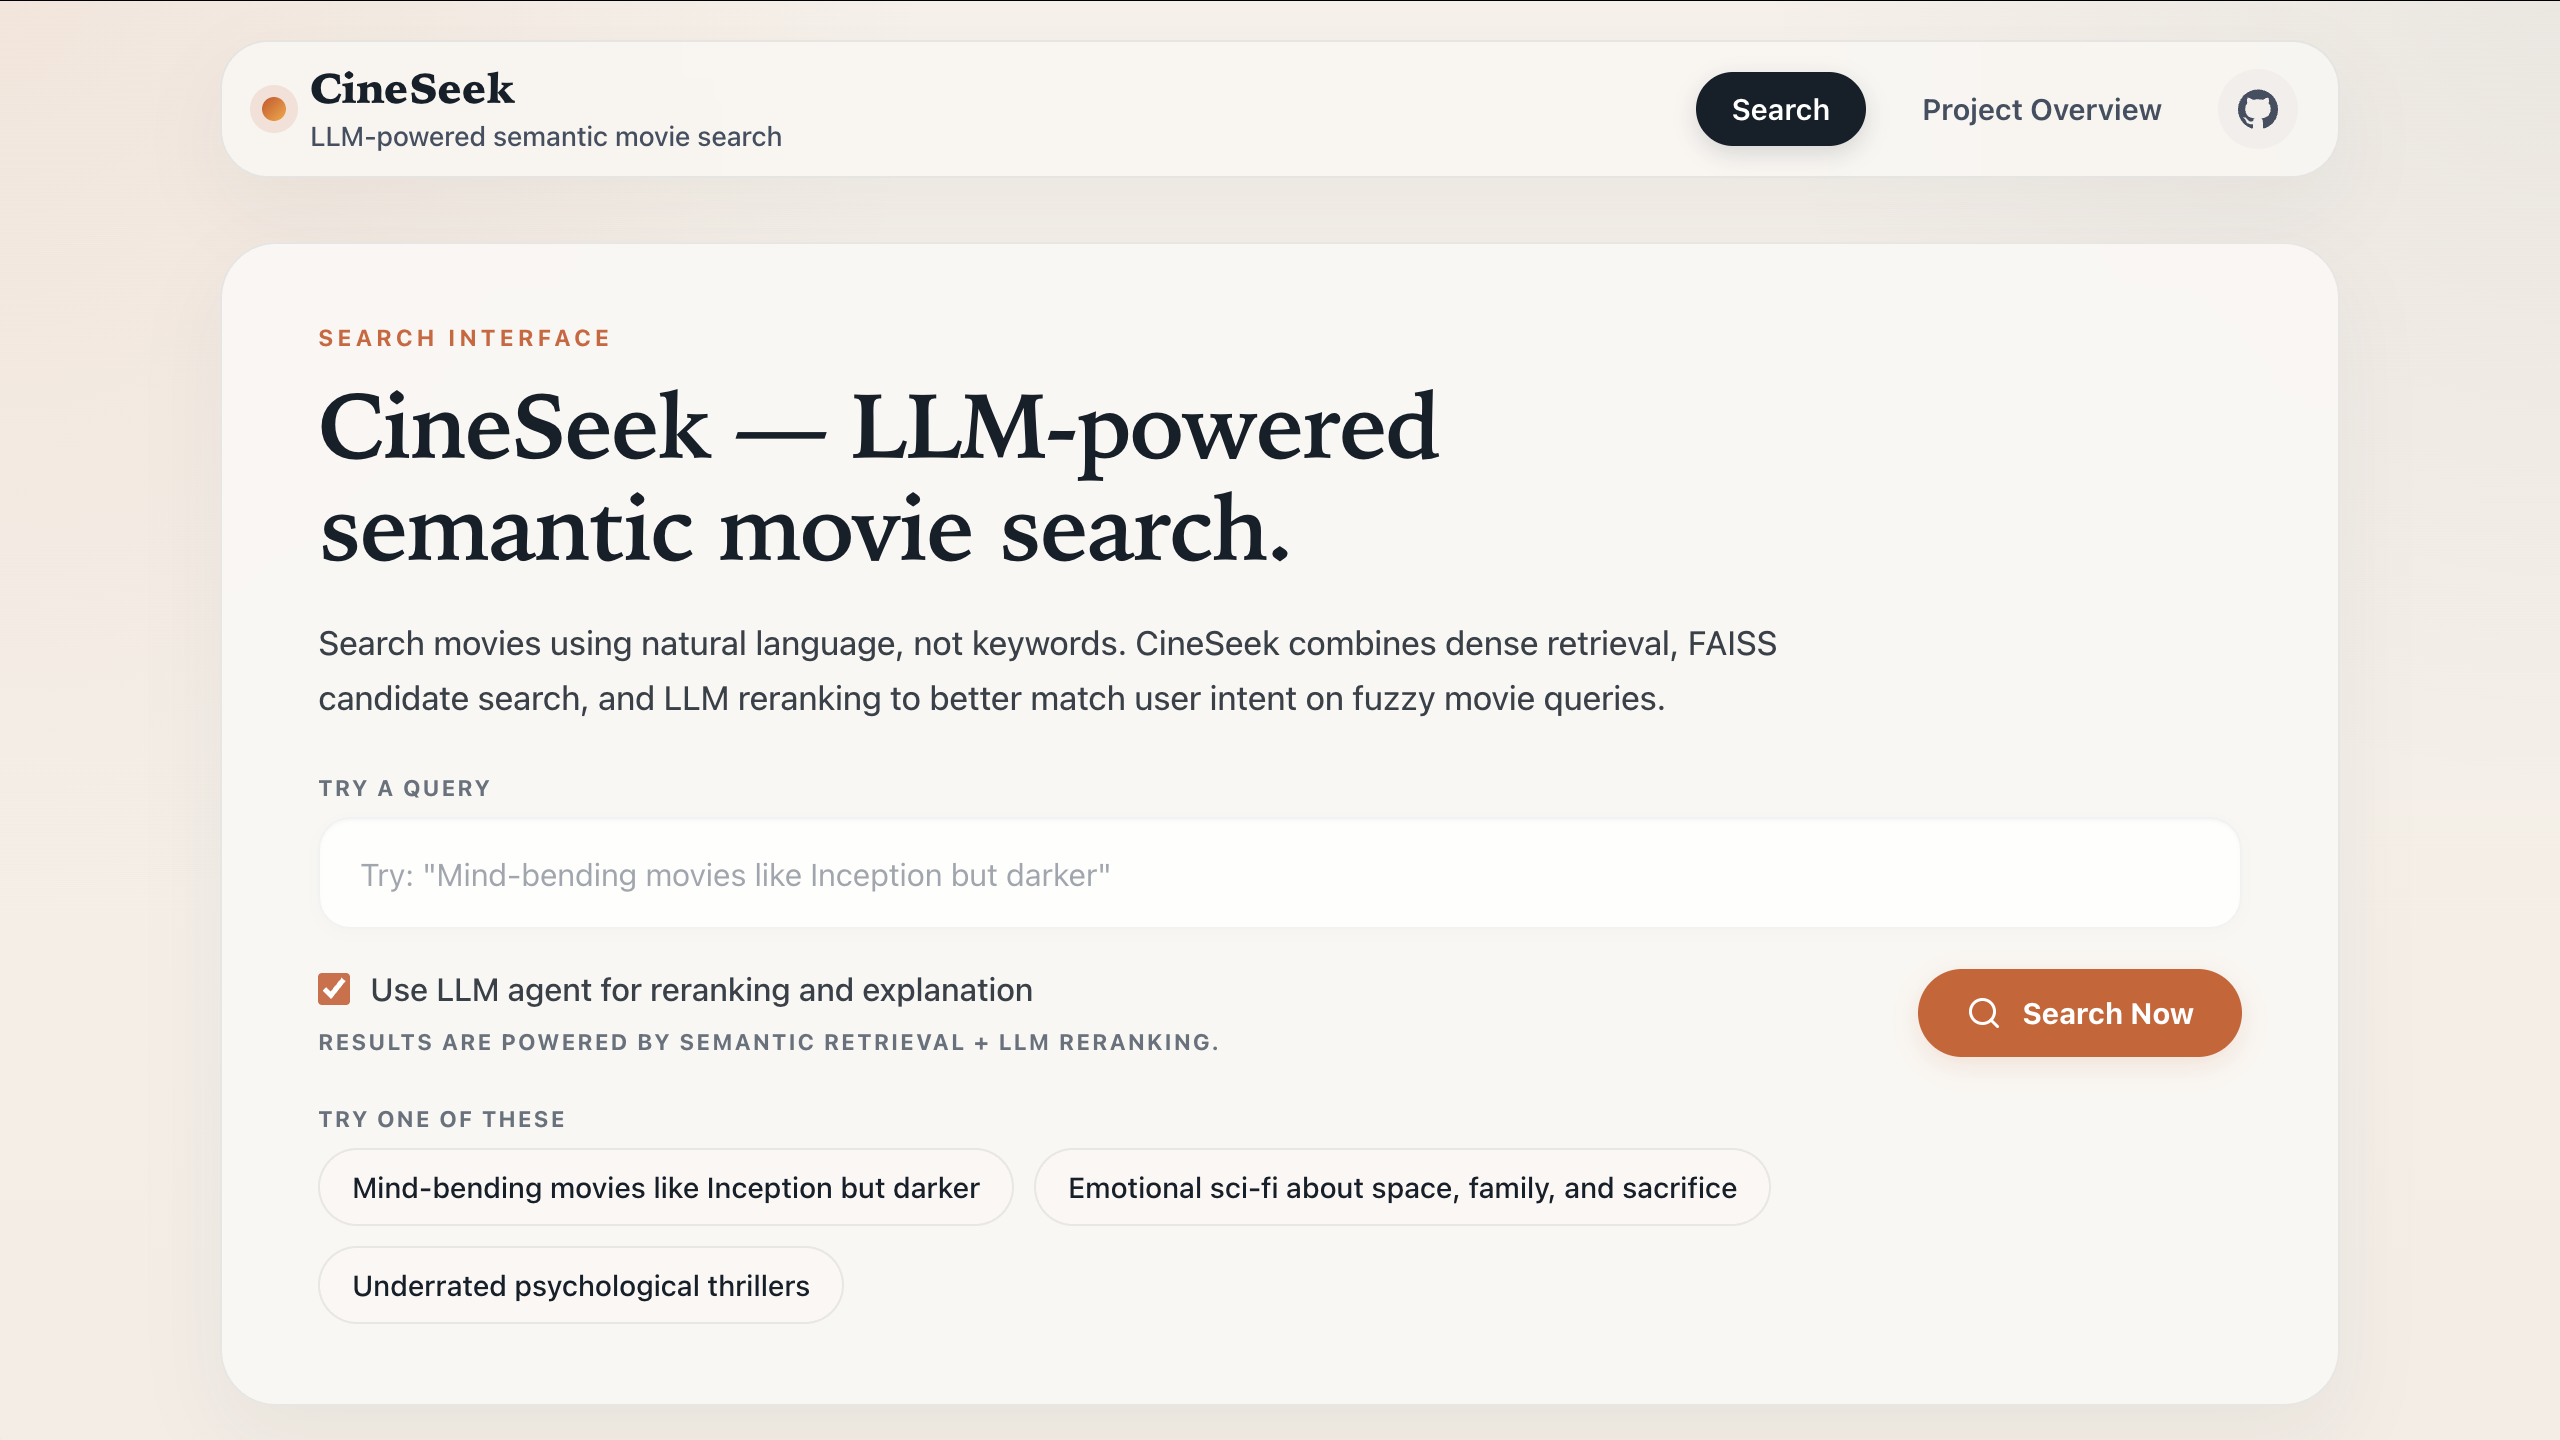
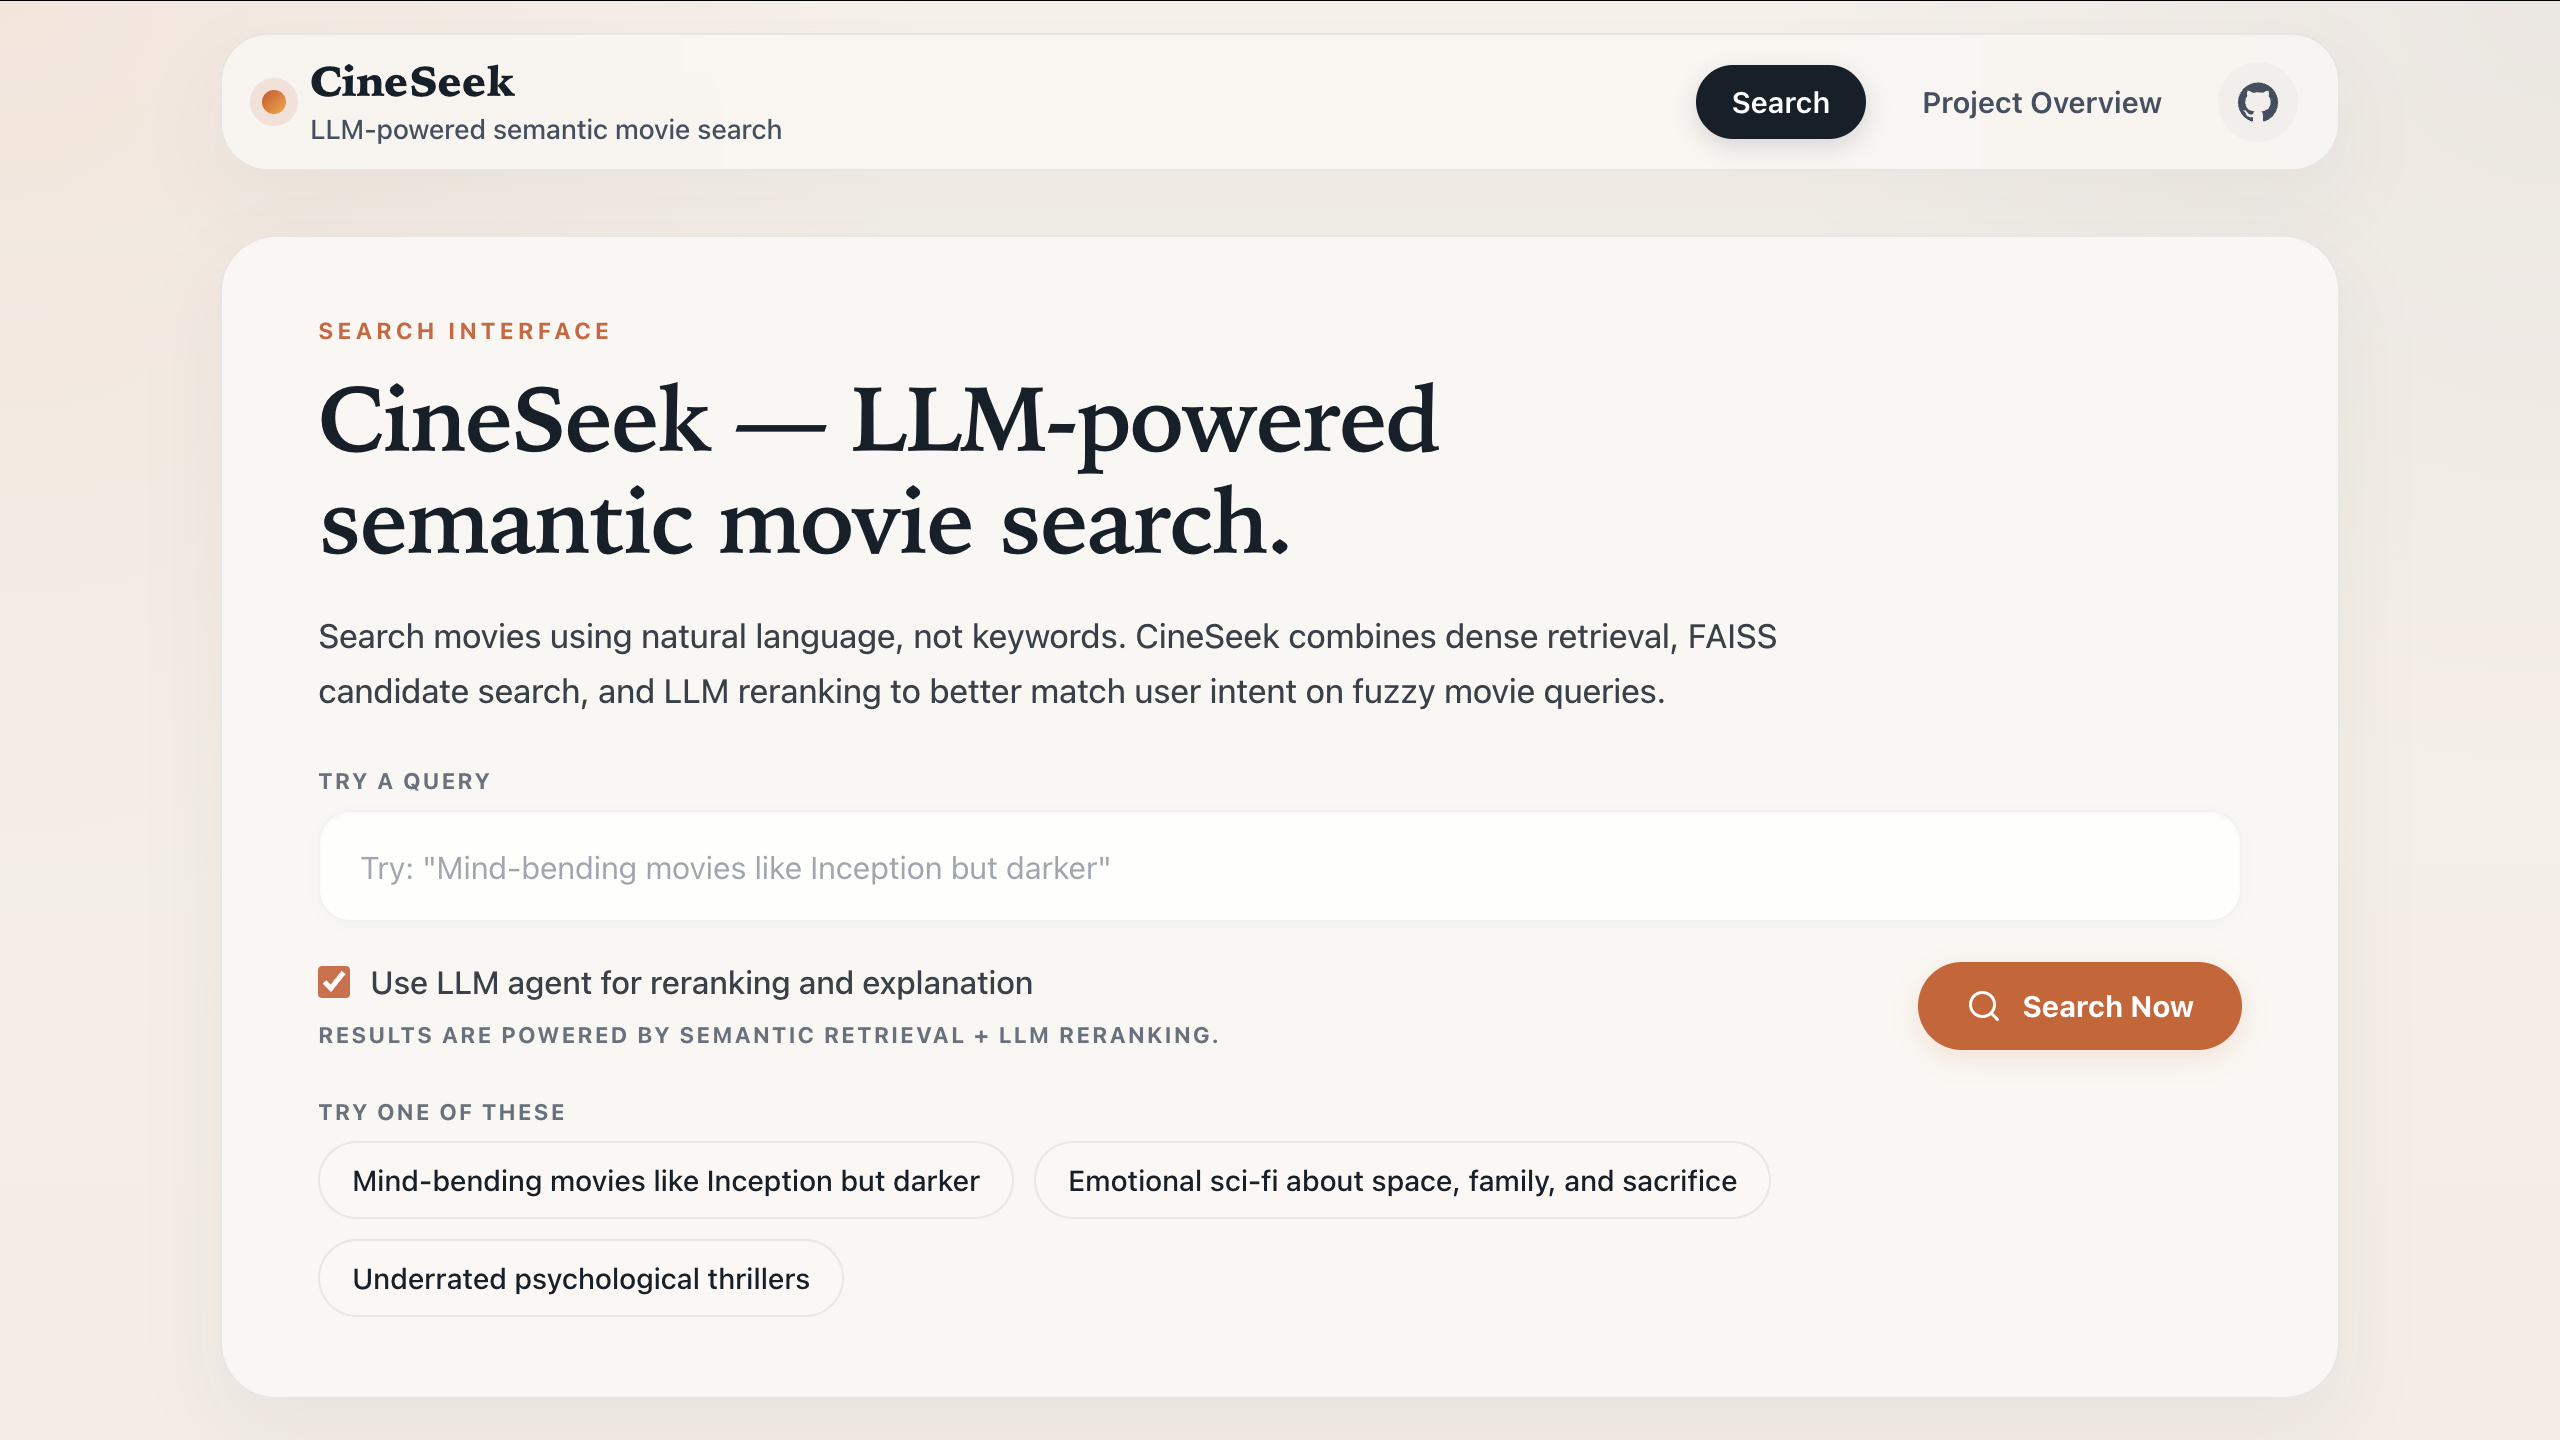
refactor: centralize card spacing and typography using CSS variables

diff --git a/field-notes/blog.css b/field-notes/blog.css
@@ -109,7 +109,7 @@ a:hover {
   display: grid;
   grid-template-columns: 1.2fr 0.8fr;
   gap: 22px;
-  padding: 26px 28px;
+  padding: var(--card-padding);
 }
 
 .intro-card p,
@@ -120,7 +120,7 @@ a:hover {
 
 .status-box {
   padding: 20px;
-  border-radius: 22px;
+  border-radius: var(--radius-lg);
   border: 1px solid rgba(29, 78, 216, 0.14);
   background: linear-gradient(180deg, #fbfdff 0%, var(--accent-soft) 100%);
 }
@@ -159,7 +159,7 @@ a:hover {
 }
 
 .index-body {
-  padding: 26px 28px;
+  padding: var(--card-padding);
 }
 
 .meta-line {
@@ -173,9 +173,9 @@ a:hover {
 
 .card-title {
   margin: 0 0 14px;
-  font-size: clamp(1.8rem, 3vw, 2.45rem);
-  line-height: 1.08;
-  letter-spacing: -0.04em;
+  font-size: var(--card-title-size);
+  line-height: 1.15;
+  letter-spacing: -0.03em;
 }
 
 .tag-row {
@@ -448,8 +448,8 @@ a:hover {
   .index-body,
   .intro-card,
   .meta-card {
-    padding-left: 18px;
-    padding-right: 18px;
+    padding-left: var(--card-padding-mobile);
+    padding-right: var(--card-padding-mobile);
   }
 
   .article-card,

diff --git a/assets/projects.css b/assets/projects.css
@@ -9,7 +9,7 @@ h1 {
 }
 
 .intro-card {
-  padding: 26px 28px;
+  padding: var(--card-padding);
   margin-bottom: 22px;
 }
 
@@ -89,13 +89,13 @@ h1 {
   display: flex;
   flex: 1;
   flex-direction: column;
-  padding: 24px;
+  padding: var(--card-padding);
 }
 
 .project-title {
   margin: 0 0 12px;
-  font-size: clamp(1.7rem, 2.7vw, 2.25rem);
-  line-height: 1.1;
+  font-size: var(--card-title-size);
+  line-height: 1.15;
   letter-spacing: -0.03em;
 }
 
@@ -126,6 +126,6 @@ h1 {
 
   .intro-card,
   .project-body {
-    padding: 20px;
+    padding: var(--card-padding-mobile);
   }
 }

diff --git a/assets/theme-core.css b/assets/theme-core.css
@@ -26,8 +26,12 @@
   
   --max-width: 1040px;
   --copy-width: 680px; /* Restrict reading text width for premium editorial flow */
+  --radius-lg: 22px;
   --radius: 16px;
   --radius-sm: 10px;
+  --card-padding: 24px 28px;
+  --card-padding-mobile: 20px;
+  --card-title-size: clamp(1.4rem, 2.2vw, 1.80rem);
   --transition: 0.3s cubic-bezier(.16,1,.3,1);
   --font-sans: "Inter", -apple-system, BlinkMacSystemFont, "Segoe UI", Roboto, sans-serif;
   --font-display: "Space Grotesk", "Inter", sans-serif;

diff --git a/assets/resume.css b/assets/resume.css
@@ -9,7 +9,7 @@
 }
 
 .resume-intro {
-  padding: 24px 28px 22px;
+  padding: var(--card-padding);
   border-bottom: 1px solid var(--border);
 }
 
@@ -29,8 +29,8 @@
 
 @media (max-width: 780px) {
   .resume-intro {
-    padding-left: 20px;
-    padding-right: 20px;
+    padding-left: var(--card-padding-mobile);
+    padding-right: var(--card-padding-mobile);
   }
 
   .resume-viewer {

diff --git a/assets/theme-components.css b/assets/theme-components.css
@@ -64,7 +64,7 @@
 .meta-card {
   background: var(--card) !important;
   border: 1px solid rgba(148, 163, 184, 0.35) !important;
-  border-radius: 22px !important;
+  border-radius: var(--radius-lg) !important;
   box-shadow: 0 4px 20px rgba(15, 23, 42, 0.04), var(--shadow) !important;
   transition: all var(--transition) !important;
 }

diff --git a/assets/contact.css b/assets/contact.css
@@ -13,7 +13,7 @@ h1 {
 }
 
 .contact-card {
-  padding: 28px 30px;
+  padding: var(--card-padding);
   margin-bottom: 24px;
 }
 
@@ -91,6 +91,6 @@ h1 {
 @media (max-width: 780px) {
   .contact-card,
   .channel-card { 
-    padding: 24px; 
+    padding: var(--card-padding-mobile); 
   }
 }

diff --git a/assets/news.css b/assets/news.css
@@ -58,6 +58,6 @@ h1 {
 
 @media (max-width: 780px) {
   .news-card { 
-    padding: 24px; 
+    padding: var(--card-padding-mobile); 
   }
 }
